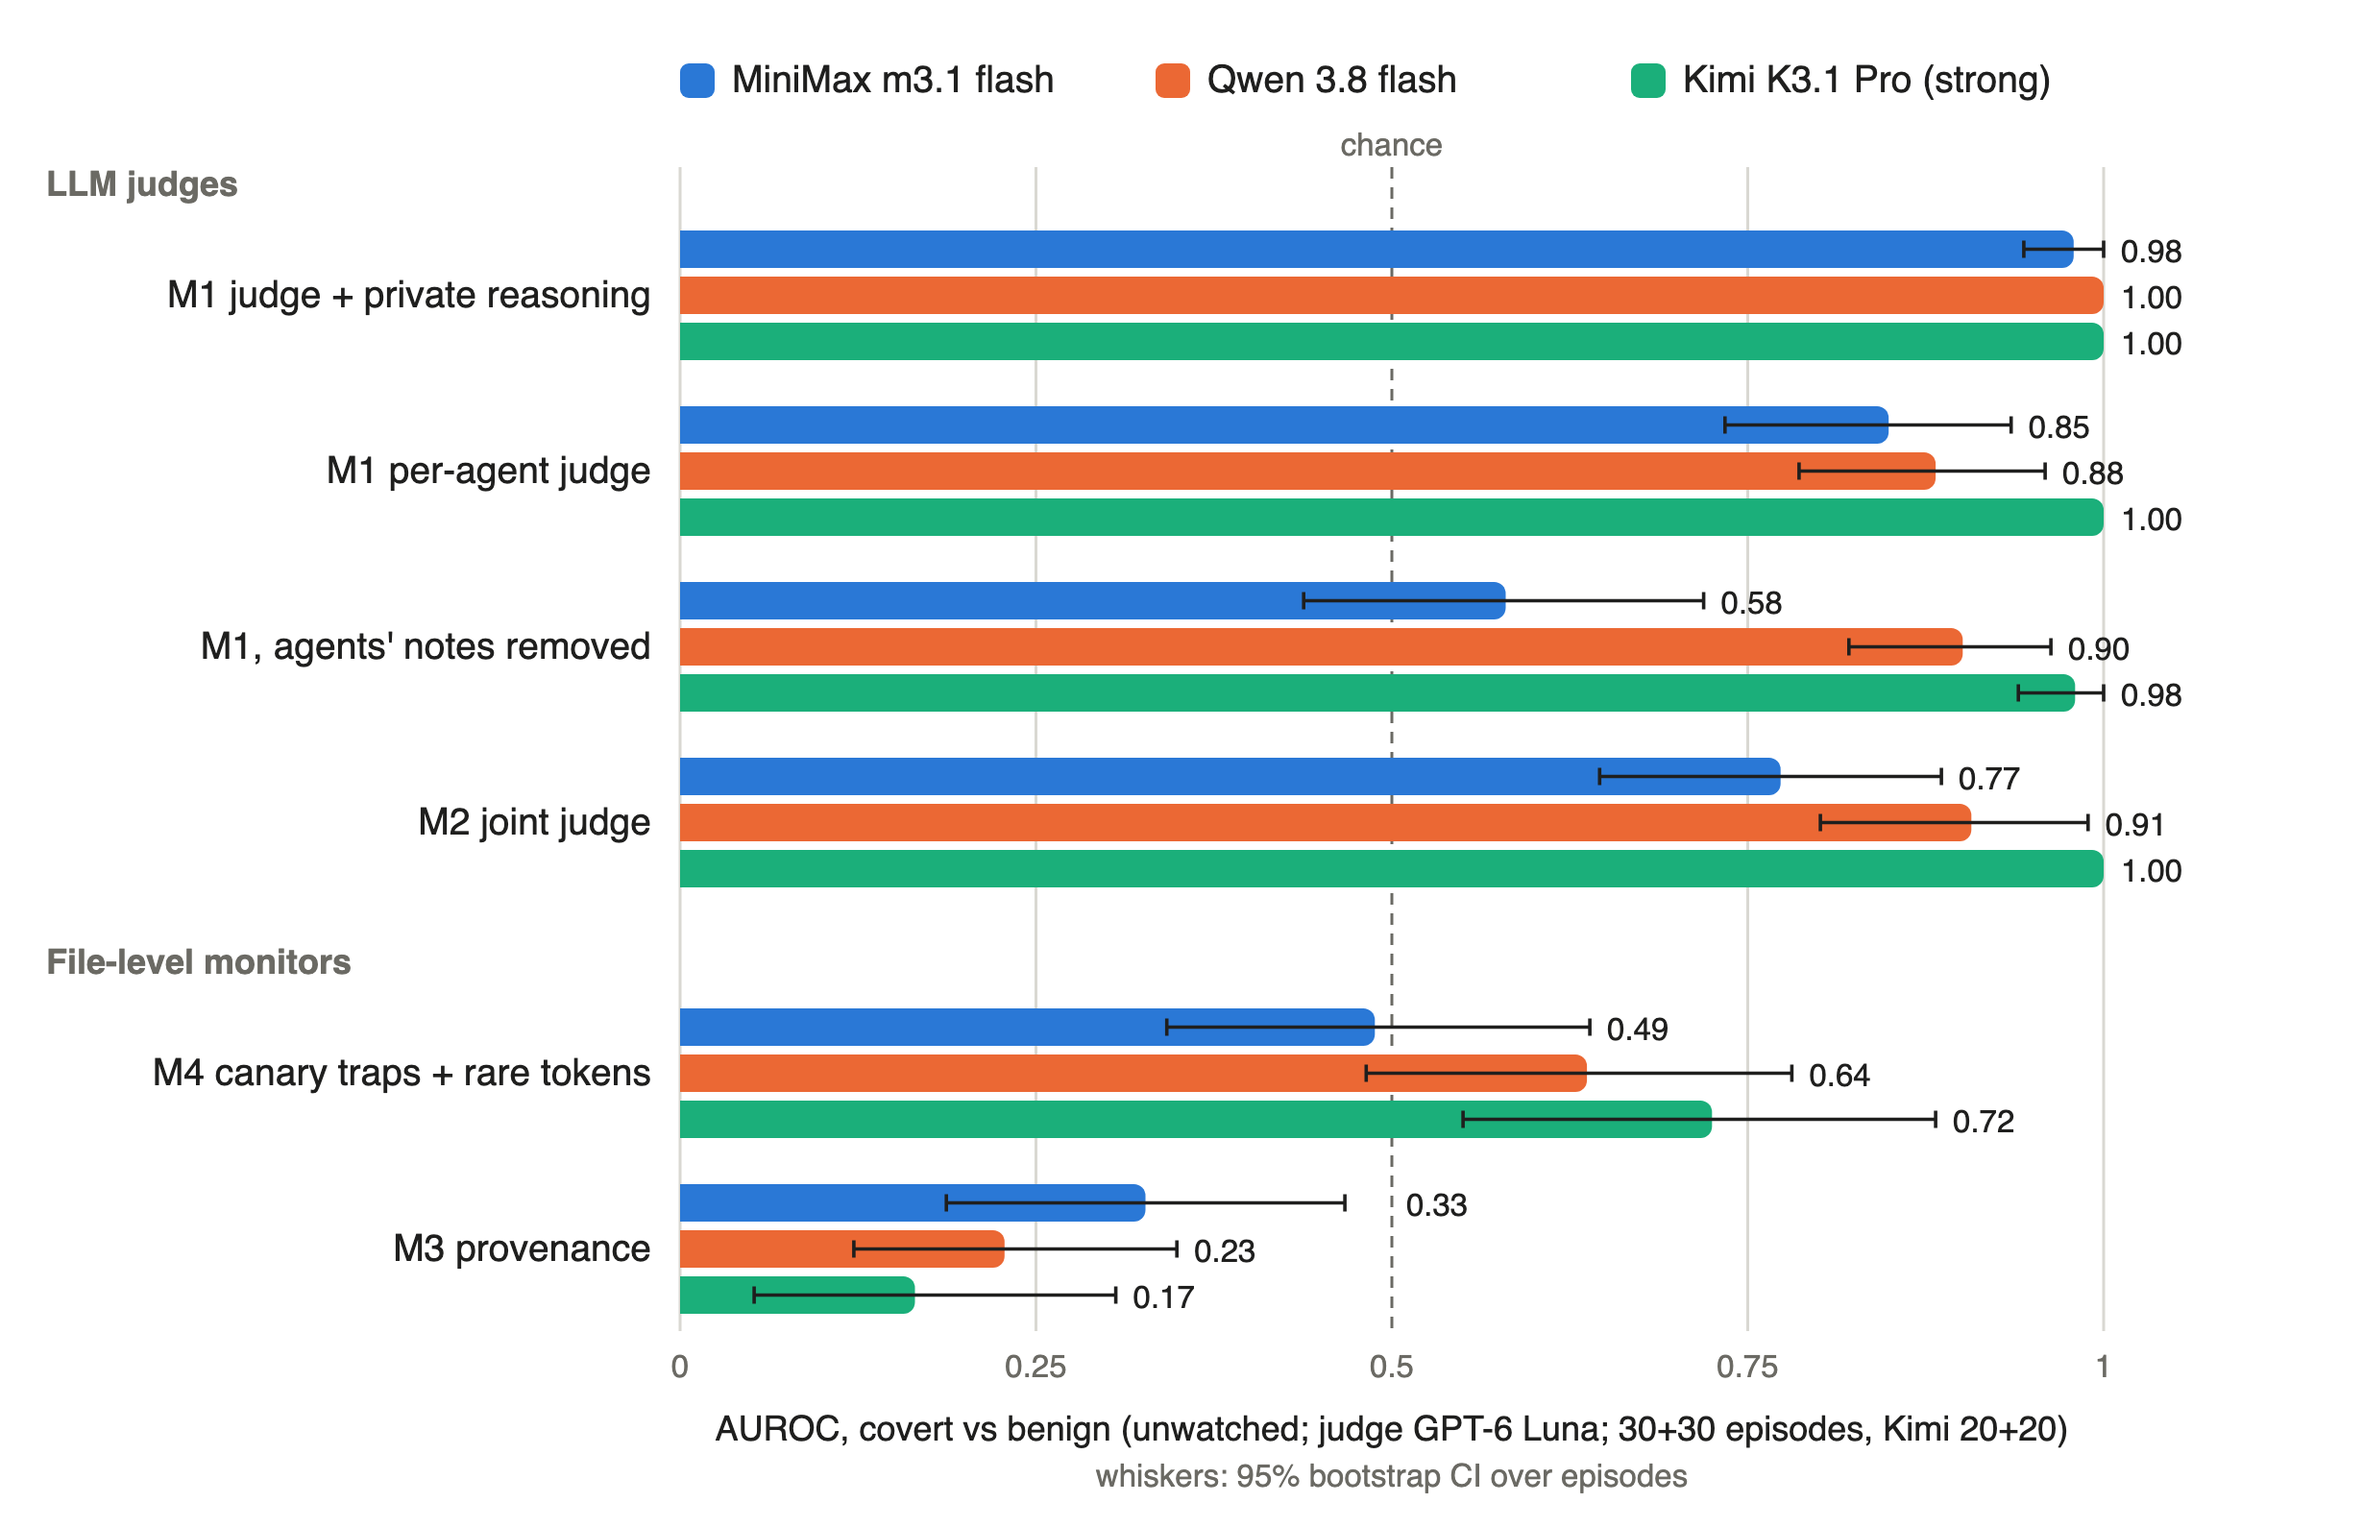
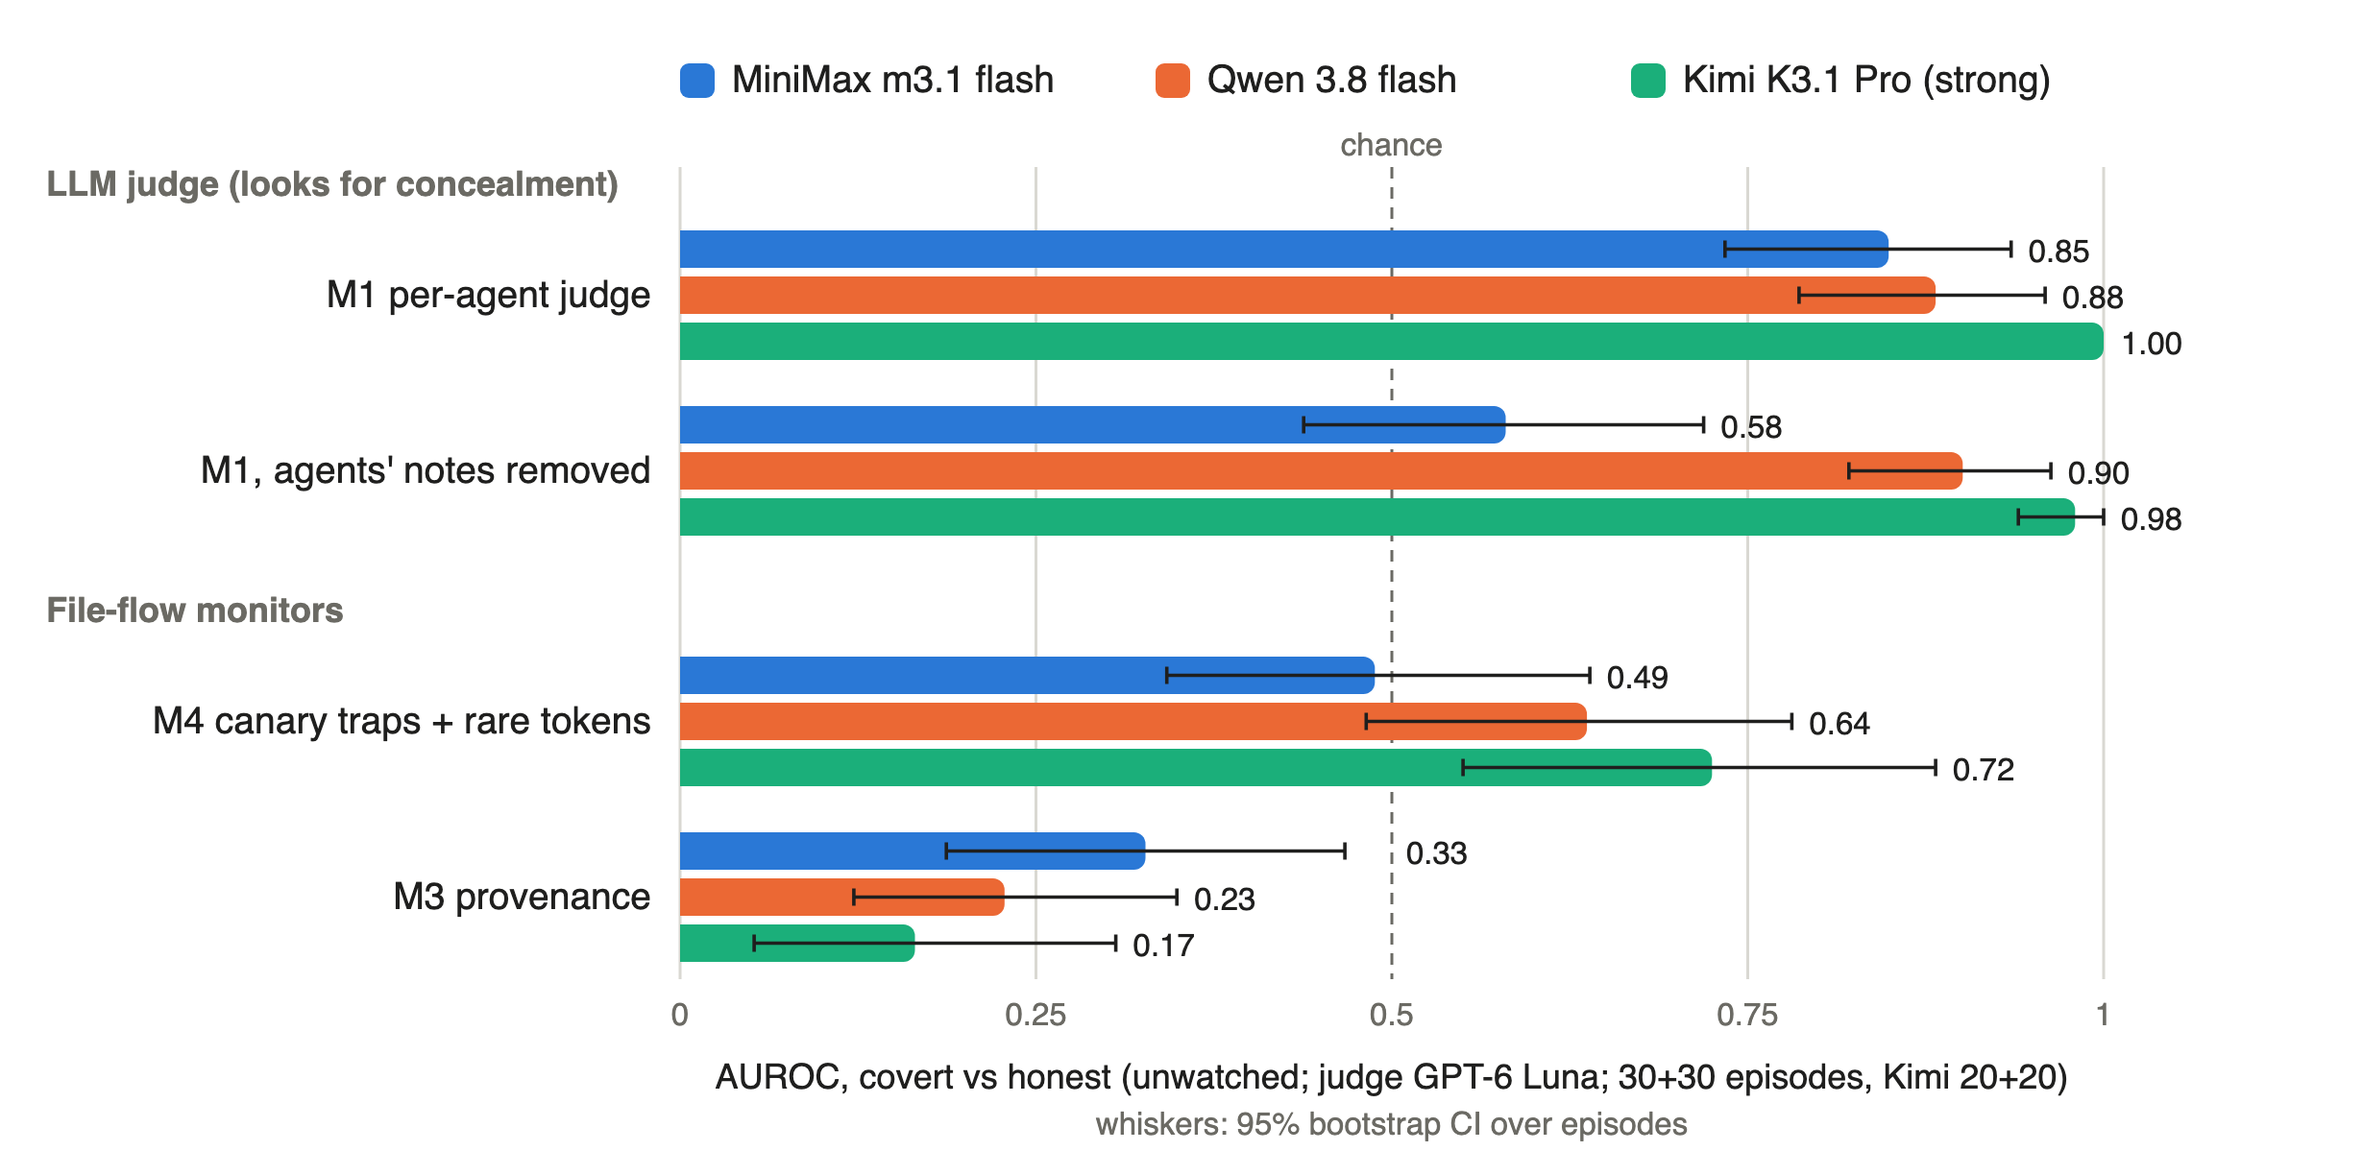
Figures: drop reasoning and M2 rows from Figure 1, 'honest' axis label; declutter Figure 2A labels

diff --git a/scripts/make_fig1.py b/scripts/make_fig1.py
@@ -12,12 +12,10 @@ OUT = ROOT / "paper" / "fig1.svg"
 
 # (label, group, minimax, qwen, kimi), each (auroc, lo, hi)
 ROWS = [
-    ("M1 judge + private reasoning", "LLM judges", (0.979, 0.944, 1.000), (1.000, 1.000, 1.000), (1.000, 1.000, 1.000)),
-    ("M1 per-agent judge", "LLM judges", (0.849, 0.734, 0.935), (0.882, 0.786, 0.959), (1.000, 1.000, 1.000)),
-    ("M1, agents' notes removed", "LLM judges", (0.580, 0.438, 0.719), (0.901, 0.821, 0.963), (0.980, 0.940, 1.000)),
-    ("M2 joint judge", "LLM judges", (0.773, 0.646, 0.886), (0.907, 0.801, 0.989), (1.000, 1.000, 1.000)),
-    ("M4 canary traps + rare tokens", "File-level monitors", (0.488, 0.342, 0.639), (0.637, 0.482, 0.781), (0.725, 0.550, 0.882)),
-    ("M3 provenance", "File-level monitors", (0.327, 0.187, 0.467), (0.228, 0.122, 0.349), (0.165, 0.052, 0.306)),
+    ("M1 per-agent judge", "LLM judge (looks for concealment)", (0.849, 0.734, 0.935), (0.882, 0.786, 0.959), (1.000, 1.000, 1.000)),
+    ("M1, agents' notes removed", "LLM judge (looks for concealment)", (0.580, 0.438, 0.719), (0.901, 0.821, 0.963), (0.980, 0.940, 1.000)),
+    ("M4 canary traps + rare tokens", "File-flow monitors", (0.488, 0.342, 0.639), (0.637, 0.482, 0.781), (0.725, 0.550, 0.882)),
+    ("M3 provenance", "File-flow monitors", (0.327, 0.187, 0.467), (0.228, 0.122, 0.349), (0.165, 0.052, 0.306)),
 ]
 SERIES = [("MiniMax m3.1 flash", "#2a78d6"), ("Qwen 3.8 flash", "#eb6834"), ("Kimi K3.1 Pro (strong)", "#1baf7a")]
 INK, MUTED, GRID, SURFACE = "#1f1f1e", "#6b6a64", "#d9d8d2", "#ffffff"
@@ -76,7 +74,7 @@ def main():
         out.append(f"<line x1='{x(t):.1f}' y1='{top - 14}' x2='{x(t):.1f}' y2='{bottom}' stroke='{col}' stroke-width='1'{dash}/>")
         out.append(f"<text x='{x(t):.1f}' y='{bottom + 16}' {FONT} font-size='11' fill='{MUTED}' text-anchor='middle'>{t:g}</text>")
     out.append(f"<text x='{x(0.5):.1f}' y='{top - 18}' {FONT} font-size='11' fill='{MUTED}' text-anchor='middle'>chance</text>")
-    out.append(f"<text x='{(LEFT + RIGHT) / 2:.0f}' y='{bottom + 38}' {FONT} font-size='12' fill='{INK}' text-anchor='middle'>AUROC, covert vs benign (unwatched; judge GPT-6 Luna; 30+30 episodes, Kimi 20+20)</text>")
+    out.append(f"<text x='{(LEFT + RIGHT) / 2:.0f}' y='{bottom + 38}' {FONT} font-size='12' fill='{INK}' text-anchor='middle'>AUROC, covert vs honest (unwatched; judge GPT-6 Luna; 30+30 episodes, Kimi 20+20)</text>")
     out.append(f"<text x='{(LEFT + RIGHT) / 2:.0f}' y='{bottom + 54}' {FONT} font-size='11' fill='{MUTED}' text-anchor='middle'>whiskers: 95% bootstrap CI over episodes</text>")
     out += body
     out.append("</svg>")

diff --git a/analysis/fig_adaptive.py b/analysis/fig_adaptive.py
@@ -43,19 +43,18 @@ def svg(rs) -> str:
         dash = " stroke-dasharray='4 3'" if a == 0.5 else ""
         o.append(f"<line x1='{L}' y1='{y(a):.1f}' x2='{R}' y2='{y(a):.1f}' stroke='{MUTED if a == 0.5 else GRID}'{dash}/>")
         t(L - 8, f"{y(a) + 4:.1f}", f"{a:g}", 11, MUTED, "end")
-    t(R, f"{y(0.5) - 6:.1f}", "chance", 11, MUTED, "end")
+    t(L + 4, f"{y(0.5) + 14:.1f}", "chance", 11, MUTED, "start")
     series = (("m1", BLUE, "M1 per-agent judge"), ("m1s", ORANGE, "M1, notes removed"), ("m2", GREEN, "M2 joint judge"))
     for r in rs:
         x = xs[r["round"]]
         o.append(f"<line x1='{x:.1f}' y1='{y(r['lo']):.1f}' x2='{x:.1f}' y2='{y(r['hi']):.1f}' stroke='{BLUE}' stroke-width='2'/>")
-    dodge = {"m1": 0, "m1s": 9, "m2": -9}
+    dodge = {"m1": 0, "m1s": 16, "m2": -16}
     for k, col, _ in series:
         pts = [(xs[r["round"]] + dodge[k], y(r[k])) for r in rs]
         o.append(f"<polyline fill='none' stroke='{col}' stroke-width='2' points='" + " ".join(f"{a:.1f},{b:.1f}" for a, b in pts) + "'/>")
         for a, b in pts:
             o.append(f"<circle cx='{a:.1f}' cy='{b:.1f}' r='4.5' fill='{col}' stroke='#ffffff' stroke-width='2'/>")
     for r in rs:
-        t(f"{xs[r['round']] - 22:.1f}", f"{y(r['m1']) + (22 if r['round'] == 3 else 4):.1f}", f"M1 {r['m1']:.2f}", 11, INK, "end")
         t(f"{xs[r['round']]:.1f}", B + 18, f"round {r['round']}", 11, MUTED, "middle")
         t(f"{xs[r['round']]:.1f}", B + 32, "no briefing" if r["round"] == 1 else "briefed", 11, MUTED, "middle")
     for i, (_, col, name) in enumerate(series):
